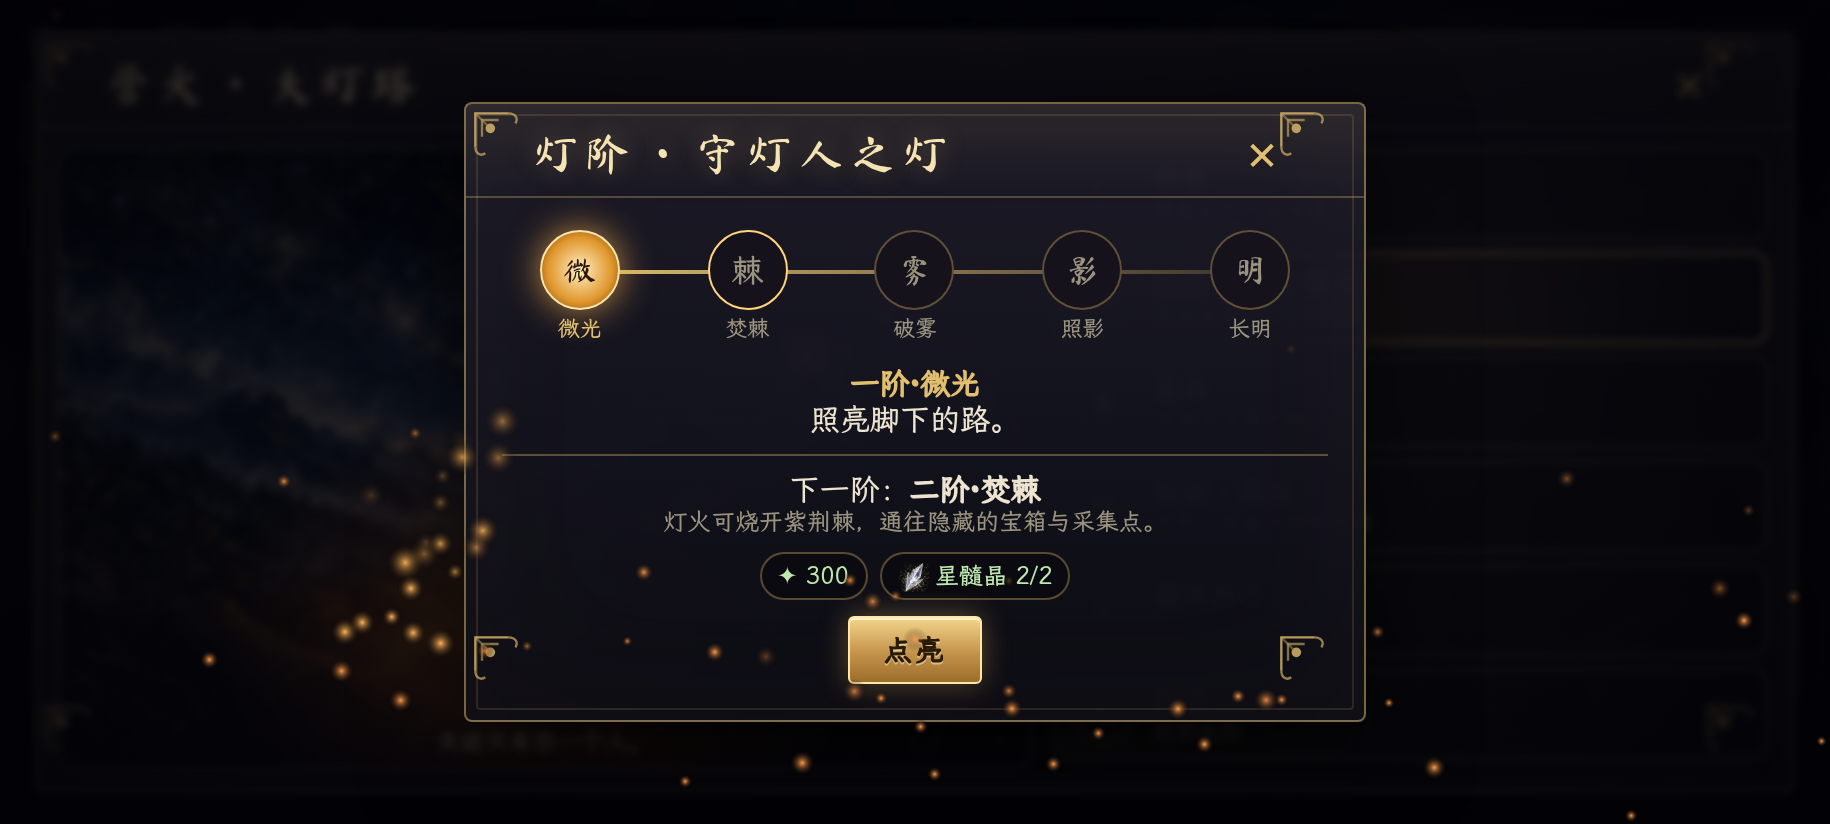
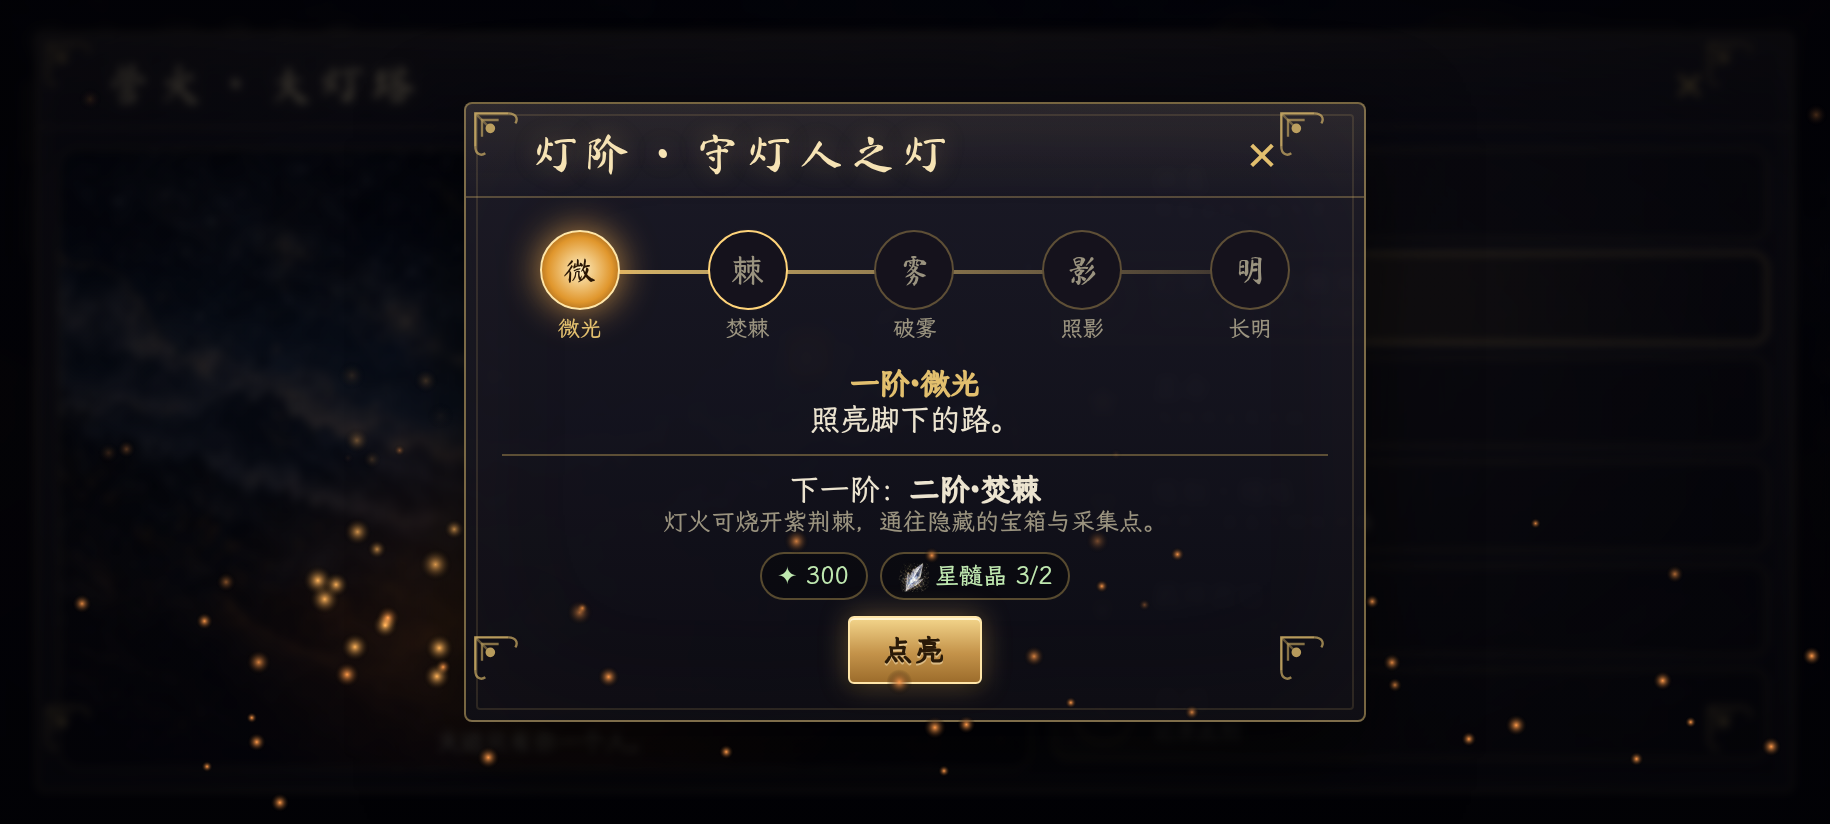
v1.1 checkpoint APK built (versionCode 2)

diff --git a/PROGRESS.md b/PROGRESS.md
@@ -67,3 +67,4 @@ d: ice jiao(冰蛟), nightmare mo(梦貘), tubo(土伯), black serpent guard(黑
 
 ## 新范围（10:41 UTC+8）：v2.0 大扩展（造梦西游式动作闯关、多角色多技能、异兽、家园、塔、日常…资产 1 万+，体积不限，git 管理）
 - [10:45] git init（/workspace/game，.gitignore 排除 keystore/密钥/node_modules/构建产物/art_raw/大截图），已验证暂存区不含 Key
+- [10:43] ✅ v1.1 检查点 APK：dist/zhulongji-v1.1.apk 22,768,876 字节，versionCode 2/1.1，同证书 273e7cc7…，不含 Key。play2 探索通关机器人仍有挂起问题（待在 v2 测试中修）
